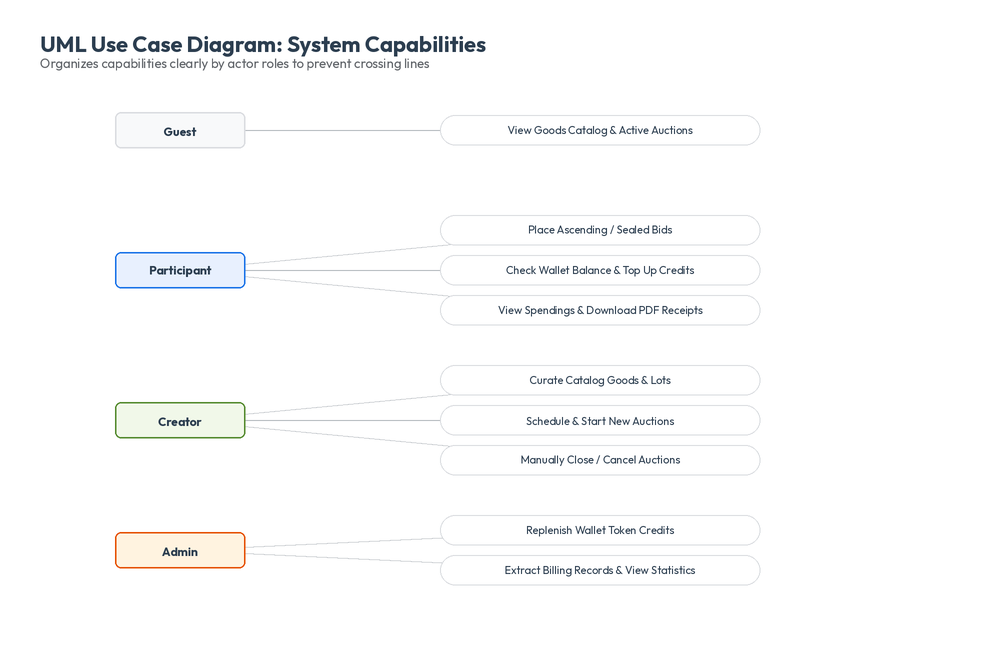
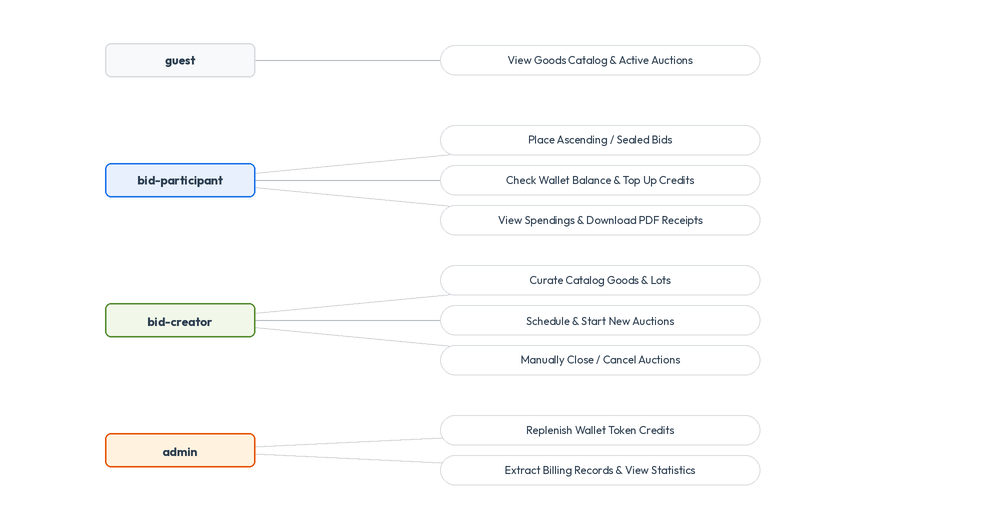
docs: rename actors in Use Case diagram to match database definitions and clean headers

diff --git a/scratch/draw_use_case.py b/scratch/draw_use_case.py
@@ -11,22 +11,19 @@ font_bold_path = os.path.join(FONT_DIR, "Outfit-Bold.ttf")
 
 SCALE = 2
 WIDTH = 1000 * SCALE
-HEIGHT = 650 * SCALE
+HEIGHT = 520 * SCALE
 
 image = Image.new("RGBA", (WIDTH, HEIGHT), (255, 255, 255, 255))
 draw = ImageDraw.Draw(image)
 
 try:
-    font_title = ImageFont.truetype(font_bold_path, 22 * SCALE)
-    font_subtitle = ImageFont.truetype(font_regular_path, 13 * SCALE)
     font_header = ImageFont.truetype(font_bold_path, 12 * SCALE)
     font_body = ImageFont.truetype(font_regular_path, 11 * SCALE)
 except IOError:
-    font_title = font_subtitle = font_header = font_body = ImageFont.load_default()
+    font_header = font_body = ImageFont.load_default()
 
 # Colors
 COLOR_TEXT_MAIN = (44, 62, 80, 255)
-COLOR_TEXT_MUTED = (95, 99, 104, 255)
 COLOR_LINE = (180, 185, 190, 255)
 COLOR_BLUE_BG = (232, 240, 254, 255)
 COLOR_BLUE_BORDER = (26, 115, 232, 255)
@@ -37,40 +34,36 @@ COLOR_ORANGE_BORDER = (230, 81, 0, 255)
 COLOR_GRAY_BG = (248, 249, 250, 255)
 COLOR_GRAY_BORDER = (218, 220, 224, 255)
 
-# Title
-draw.text((40 * SCALE, 30 * SCALE), "UML Use Case Diagram: System Capabilities", font=font_title, fill=COLOR_TEXT_MAIN)
-draw.text((40 * SCALE, 55 * SCALE), "Organizes capabilities clearly by actor roles to prevent crossing lines", font=font_subtitle, fill=COLOR_TEXT_MUTED)
-
 # Layout Definitions (X coords)
 X_ACTORS = 180 * SCALE
 X_USECASES = 600 * SCALE
 
-# Actors Data
+# Actors Data (renamed according to user specification)
 ACTORS = {
-    "Guest": {"y": 130 * SCALE, "bg": COLOR_GRAY_BG, "border": COLOR_GRAY_BORDER},
-    "Participant": {"y": 270 * SCALE, "bg": COLOR_BLUE_BG, "border": COLOR_BLUE_BORDER},
-    "Creator": {"y": 420 * SCALE, "bg": COLOR_GREEN_BG, "border": COLOR_GREEN_BORDER},
-    "Admin": {"y": 550 * SCALE, "bg": COLOR_ORANGE_BG, "border": COLOR_ORANGE_BORDER}
+    "guest": {"y": 60 * SCALE, "bg": COLOR_GRAY_BG, "border": COLOR_GRAY_BORDER},
+    "bid-participant": {"y": 180 * SCALE, "bg": COLOR_BLUE_BG, "border": COLOR_BLUE_BORDER},
+    "bid-creator": {"y": 320 * SCALE, "bg": COLOR_GREEN_BG, "border": COLOR_GREEN_BORDER},
+    "admin": {"y": 450 * SCALE, "bg": COLOR_ORANGE_BG, "border": COLOR_ORANGE_BORDER}
 }
 
 # Use Cases Data (mapped to actors to draw lines cleanly)
 USE_CASES = {
-    "Guest": [
-        {"y": 130 * SCALE, "text": "View Goods Catalog & Active Auctions"}
+    "guest": [
+        {"y": 60 * SCALE, "text": "View Goods Catalog & Active Auctions"}
     ],
-    "Participant": [
-        {"y": 230 * SCALE, "text": "Place Ascending / Sealed Bids"},
-        {"y": 270 * SCALE, "text": "Check Wallet Balance & Top Up Credits"},
-        {"y": 310 * SCALE, "text": "View Spendings & Download PDF Receipts"}
+    "bid-participant": [
+        {"y": 140 * SCALE, "text": "Place Ascending / Sealed Bids"},
+        {"y": 180 * SCALE, "text": "Check Wallet Balance & Top Up Credits"},
+        {"y": 220 * SCALE, "text": "View Spendings & Download PDF Receipts"}
     ],
-    "Creator": [
-        {"y": 380 * SCALE, "text": "Curate Catalog Goods & Lots"},
-        {"y": 420 * SCALE, "text": "Schedule & Start New Auctions"},
-        {"y": 460 * SCALE, "text": "Manually Close / Cancel Auctions"}
+    "bid-creator": [
+        {"y": 280 * SCALE, "text": "Curate Catalog Goods & Lots"},
+        {"y": 320 * SCALE, "text": "Schedule & Start New Auctions"},
+        {"y": 360 * SCALE, "text": "Manually Close / Cancel Auctions"}
     ],
-    "Admin": [
-        {"y": 530 * SCALE, "text": "Replenish Wallet Token Credits"},
-        {"y": 570 * SCALE, "text": "Extract Billing Records & View Statistics"}
+    "admin": [
+        {"y": 430 * SCALE, "text": "Replenish Wallet Token Credits"},
+        {"y": 470 * SCALE, "text": "Extract Billing Records & View Statistics"}
     ]
 }
 
@@ -85,7 +78,7 @@ for actor_name, info in ACTORS.items():
 # Draw Actors
 for name, info in ACTORS.items():
     ay = info["y"]
-    w, h = 130 * SCALE, 36 * SCALE
+    w, h = 150 * SCALE, 34 * SCALE
     x1, y1 = X_ACTORS - w // 2, ay - h // 2
     x2, y2 = X_ACTORS + w // 2, ay + h // 2
     
@@ -113,7 +106,7 @@ for actor_name, ucs in USE_CASES.items():
         tw, th = text_bbox[2] - text_bbox[0], text_bbox[3] - text_bbox[1]
         draw.text((X_USECASES - tw // 2, uy - th // 2 - 2 * SCALE), text, font=font_body, fill=COLOR_TEXT_MAIN)
 
-# Resample to final size
-img_resized = image.resize((1000, 650), Image.Resampling.LANCZOS)
+# Resample to final size (1000px width, 520px height)
+img_resized = image.resize((1000, 520), Image.Resampling.LANCZOS)
 img_resized.save(OUTPUT_PATH, "PNG")
-print(f"Successfully generated Use Case diagram at: {OUTPUT_PATH}")
+print(f"Successfully updated Use Case diagram at: {OUTPUT_PATH}")

diff --git a/README.md b/README.md
@@ -529,7 +529,6 @@ sequenceDiagram
 ## 📊 4. UML Diagrams
 
 ### 4.1 Use Case Diagram
-This diagram groups capabilities by actor, eliminating crossing lines so you can understand who does what in less than two seconds:
 
 <div align="center">
   <img src="./assets/use_case_diagram.png" width="650" alt="Use Case Diagram">